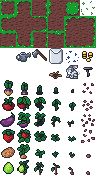
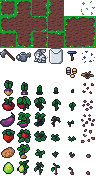
Move tiles around to save a few bytes.

diff --git a/src/game.scss b/src/game.scss
@@ -82,8 +82,8 @@ a, a:visited {
   height: $tileHeight;
   background-size: (6 * $tileWidth) (11 * $tileHeight);
   background-image: url('../img/tiles2.png');
-  background-position-x: (0 * $tileWidth);
-  background-position-y: (-3 * $tileHeight);
+  background-position-x: (-4 * $tileWidth);
+  background-position-y: (0 * $tileHeight);
 }
 
 .farm {
@@ -181,7 +181,7 @@ a, a:visited {
   background-position-y: (-1 * $tileHeight);
 }
 .tile.water {
-  background-position-x: (-4 * $tileWidth);
+  background-position-x: (-5 * $tileWidth);
   background-position-y: (-3 * $tileHeight);
 }
 .tile.seeds {
@@ -189,7 +189,7 @@ a, a:visited {
   background-position-y: (-3 * $tileHeight);
 }
 .tile.hoe {
-  background-position-x: (-2 * $tileWidth);
+  background-position-x: (0 * $tileWidth);
   background-position-y: (-3 * $tileHeight);
 }
 .tile.can {
@@ -197,15 +197,15 @@ a, a:visited {
   background-position-y: (-3 * $tileHeight);
 }
 .tile.sprinkler {
-  background-position-x: (-5 * $tileWidth);
-  background-position-y: (-4 * $tileHeight);
+  background-position-x: (-4 * $tileWidth);
+  background-position-y: (-3 * $tileHeight);
 }
 .tile.bunny {
-  background-position-x: (-4 * $tileWidth);
-  background-position-y: (-4 * $tileHeight);
+  background-position-x: (-2 * $tileWidth);
+  background-position-y: (-3 * $tileHeight);
 }
 .tile.crop.stage-1 {
-  background-position-x: (-3 * $tileWidth);
+  background-position-x: (-5 * $tileWidth);
   background-position-y: (-4 * $tileHeight);
 }
 
@@ -242,8 +242,8 @@ a, a:visited {
 
 .tile.cash {
   transform: scale(0.75);
-  background-position-x: (-5 * $tileWidth);
-  background-position-y: (-3 * $tileHeight);
+  background-position-x: (-4 * $tileWidth);
+  background-position-y: (-4 * $tileHeight);
 }
 
 $storeBorder: rgb(113, 65, 59);
